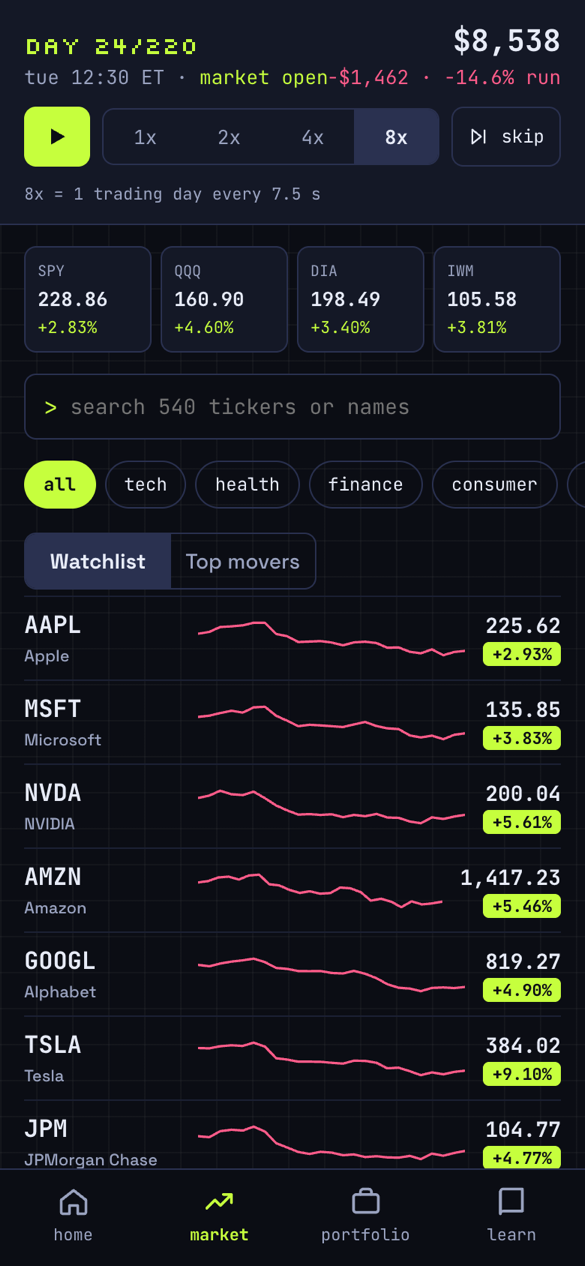
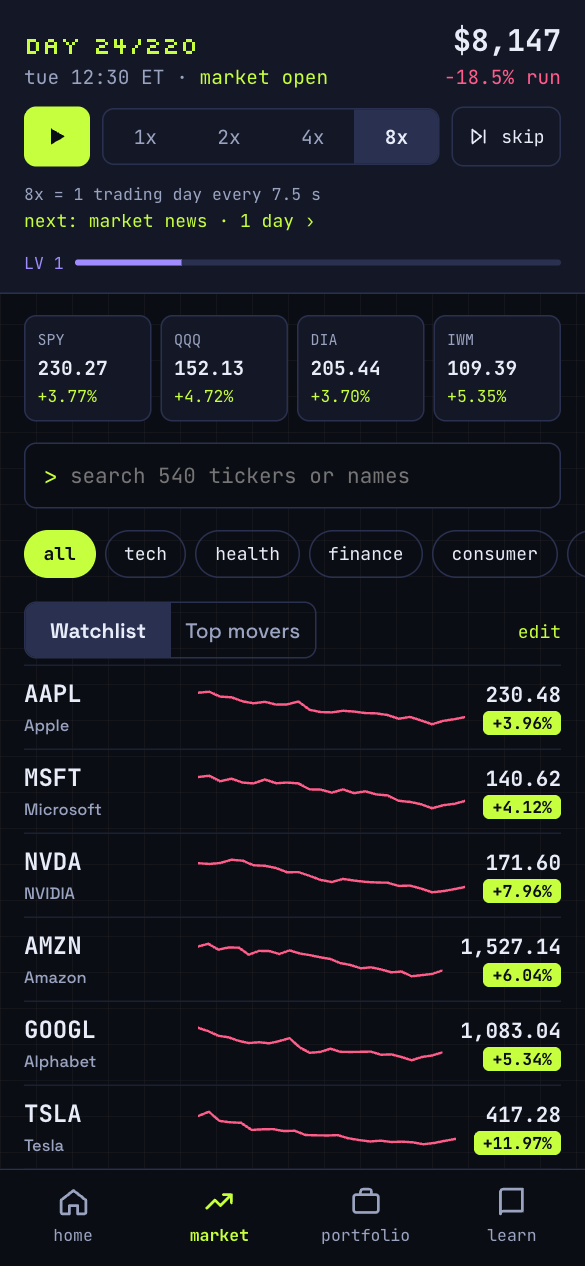
Update README and roadmap for 1.0
Current features and FAQ, new Home and Settings screenshots, refreshed Market and Stock
shots, and phase 6 in the roadmap.

Closes #54

diff --git a/README.md b/README.md
@@ -55,14 +55,19 @@ same prices, same headlines, same earnings surprises. The only thing that change
 
 <table>
   <tr>
+    <td align="center" width="33%"><img src="docs/assets/home.png" alt="Home: level and XP, the run in progress with a Resume button, daily quests and badges" width="260"><br><b>Home</b><br><sub>Your run, quests, streak and badges</sub></td>
     <td align="center" width="33%"><img src="docs/assets/pick-run.png" alt="Pick your run: scenario cards with difficulty and boss runs" width="260"><br><b>Pick your run</b><br><sub>Nine scenarios plus a custom market</sub></td>
-    <td align="center" width="33%"><img src="docs/assets/market.png" alt="Market screen with speed controls, index tiles, sector chips and watchlist" width="260"><br><b>Market</b><br><sub>Live clock, indexes, search, movers</sub></td>
-    <td align="center" width="33%"><img src="docs/assets/stock.png" alt="Stock screen for AAPL with intraday chart, upcoming earnings and dividend tags" width="260"><br><b>Stock</b><br><sub>Intraday chart, events, quick facts</sub></td>
+    <td align="center" width="33%"><img src="docs/assets/market.png" alt="Market screen with speed controls, the next event, index tiles, sector chips and an editable watchlist" width="260"><br><b>Market</b><br><sub>Live clock, next event, indexes, watchlist</sub></td>
   </tr>
   <tr>
+    <td align="center"><img src="docs/assets/stock.png" alt="Stock screen for AAPL with a watchlist star, intraday chart, upcoming earnings and dividend tags" width="260"><br><b>Stock</b><br><sub>Intraday chart, events, quick facts</sub></td>
     <td align="center"><img src="docs/assets/order.png" alt="Order sheet: buy $500 of AAPL with preview and risk check" width="260"><br><b>Order sheet</b><br><sub>Plain-English preview and risk check</sub></td>
     <td align="center"><img src="docs/assets/portfolio.png" alt="Portfolio: account value, return, dividends and a you-vs-SPY chart" width="260"><br><b>Portfolio</b><br><sub>Your equity curve vs the index</sub></td>
+  </tr>
+  <tr>
     <td align="center"><img src="docs/assets/debrief.png" alt="Run complete: grade A, +54.2% vs +12.4% for buy and hold SPY" width="260"><br><b>Debrief</b><br><sub>Grade, stats and replay</sub></td>
+    <td align="center"><img src="docs/assets/settings.png" alt="Settings: player name, day length, pause at each close and sound" width="260"><br><b>Settings</b><br><sub>Clock, sound, saves and backups</sub></td>
+    <td></td>
   </tr>
 </table>
 
@@ -79,36 +84,31 @@ flowchart LR
 ```
 
 1. **Pick your run.** Choose a scenario, starting cash ($1k to $1M) and fees, or build a custom market.
-2. **Trade.** Market hours tick by in 5-minute bars. Play, pause, skip to the close, or change speed (1x to 8x).
+2. **Trade.** Market hours tick by in 5-minute bars. Play, pause, skip to the close, jump to the next event, or change speed (1x to 8x, or as slow as real time).
 3. **React.** Earnings beats and misses, company news and scenario headlines move prices; dividends land in your cash.
 4. **Get graded.** See your return next to buy-and-hold SPY (with dividends), your worst drop, costs and the moments worth learning from.
 5. **Replay.** Same seed, same market. Try the plan you wish you'd had.
 
 ## Features
 
-### Available now
-
 | Area | What you get |
 | --- | --- |
-| **Stocks** | ~550 S&P 500 and popular Nasdaq names, plus index and sector ETFs (SPY, QQQ, DIA, IWM, ...). Search, sector filter, watchlist, top movers. |
+| **Stocks** | ~550 S&P 500 and popular Nasdaq names, plus index and sector ETFs (SPY, QQQ, DIA, IWM, ...). Search, sector filter, top movers, and a watchlist you edit (star any stock). |
 | **Orders** | Market, limit and stop orders. Buy by dollars or shares, fractional shares, day or until-cancelled. "Explain like I'm new" on every order type. |
 | **Realistic fills** | Bid/ask spread, optional commission ($0, $1 or $5 a trade), overnight gaps, stops that slip through gaps. |
 | **Risk check** | Every order shows how much of your account it puts at risk before you confirm. |
-| **Clock** | Real NYSE calendar with weekends and holidays skipped. Play, pause, skip to the close, 1x / 2x / 4x / 8x speed. |
+| **Clock** | Real NYSE calendar with weekends and holidays skipped. Play, pause, skip to the close, 1x to 8x, 5 minutes a day or real time. **Next event** plays ahead to the close before the next earnings report, ex-dividend date or headline for what you hold or watch. |
 | **Events** | Quarterly earnings with beats and misses, company news, scenario headlines, quarterly dividends with ex-dates. |
+| **Margin and shorts** | Borrow up to 2x with interest and margin calls, and sell short with borrow fees (unlocked as you level up). |
 | **Day summary** | At each close: you vs SPY, best and worst holding, the day's headline. |
 | **Portfolio** | Account value, cash, profit and loss, dividends received, and your equity curve against SPY. |
-| **Debrief** | A to F grade, return vs SPY, worst drawdown, win rate, costs paid, best and worst positions, and flagged moments. |
-| **Replay** | Rerun any market with the same seed. Share a seed and a friend gets the same market. |
+| **Debrief** | A to F grade, return vs SPY, worst drawdown, win rate, costs paid, best and worst positions, flagged moments, and the XP and badges the run earned. |
+| **Replay** | Rerun any market with the same seed, or jump back to the close before a flagged moment and try again. |
+| **Learn** | A guided first trade, glossary cards on every term, 12 short lessons and 8 fixed-market challenges. |
+| **Rewards** | XP, levels and ranks, daily quests, streaks and 24 badges. XP rewards good process, not lucky bets. |
+| **Saves** | Runs save themselves in 3 slots and reopen where you left off. Export a run, or back up everything to a file and import it on another device. |
+| **Settings** | Player name, default speed, pause at each close, sound, storage used, reset progress. |
 | **Offline app** | Installable PWA. Fonts and data ship inside the app; no network calls at runtime. |
-
-### Coming next
-
-- **Learn:** guided first trade, glossary tooltips, short lessons and challenges.
-- **Rewards:** XP, levels and ranks, daily quests, streaks and badges, unlockable scenarios.
-- **Replay a moment:** jump straight back to the day of a mistake and try again.
-- **More tools:** margin with margin calls, short selling.
-- **Polish:** autosave and save slots, export and import, settings, slower clock speeds.
 
 See the full [roadmap](docs/ROADMAP.md).
 
@@ -179,8 +179,9 @@ including all stock data, is cached on your device.
 <details>
 <summary><b>Where is my data stored?</b></summary>
 
-On your device only. Nothing is sent anywhere. Runs currently live in memory for the session;
-autosave and save slots are on the roadmap.
+On your device only (in the browser's storage). Nothing is sent anywhere. Runs save themselves
+into 3 slots as you play; Settings can export a run or back up everything to a file, which you
+can import on another device.
 </details>
 
 <details>
@@ -195,8 +196,10 @@ friend and race them on the same market.
 <summary><b>Are the companies and tickers real?</b></summary>
 
 The list of ~550 companies is based on well-known US stocks and ETFs, with approximate sectors,
-volatility and dividend yields. A few tickers may be out of date, and the Meme squeeze scenario
-adds a fictional company.
+volatility and dividend yields, and was last checked in November 2026. A few companies that were
+bought out since then (such as Electronic Arts) stay in, because every scenario ends before they
+left the market. Each company only appears in scenarios that start after it listed. The Meme
+squeeze scenario adds a fictional company.
 </details>
 
 ## Run it locally
@@ -242,8 +245,11 @@ flowchart LR
 
 ```
 src/
-├── engine/    market simulation, calendar, orders, account, events, debrief
-├── worker/    Web Worker that hosts the engine
+├── engine/    market simulation, calendar, orders, account, events, debrief, saves
+├── worker/    Web Worker that hosts the engine and writes saves
+├── game/      XP, levels, quests, badges, settings, watchlist
+├── learn/     glossary, lessons, challenges
+├── storage/   IndexedDB, save slots, export files
 ├── ui/        screens, charts, order sheet, formatting helpers
 ├── data/      stock and ETF universe
 └── styles/    design tokens and global styles
@@ -266,8 +272,9 @@ src/
 | 1 | Market engine: moods, sectors, intraday prices, trading calendar, stock list | ✅ |
 | 2 | Trading screens: market, stock, order sheet, portfolio | ✅ |
 | 3 | All scenarios, news and events, dividends, debrief and grades | ✅ |
-| 4 | Tutorial, glossary, lessons, challenges, XP and badges, margin and shorts | 🚧 |
-| 5 | Saves, settings, install prompt, offline polish, performance | ⏳ |
+| 4 | Tutorial, glossary, lessons, challenges, XP and badges, margin and shorts | ✅ |
+| 5 | Saves, settings, install prompt, offline polish, performance | ✅ |
+| 6 | Release 1.0: editable watchlist, next event, error screen, accessibility | 🚧 |
 
 Details in [docs/ROADMAP.md](docs/ROADMAP.md). Ideas and bug reports are welcome in
 [Issues](https://github.com/PrataapMS/dip-lab/issues).

diff --git a/docs/ROADMAP.md b/docs/ROADMAP.md
@@ -14,14 +14,14 @@ Prices are simulated. Nothing here is investment advice.
 - Covers bull runs, crashes, rebounds, bubbles, rate shocks, sideways markets and earnings surprises.
 - Honest feedback: every run is scored against buy-and-hold.
 
-## Features (first release)
+## Features (1.0)
 
 | Area | What you get |
 | --- | --- |
-| Stocks | ~550 well-known US stocks plus major index and sector ETFs; search, sector filter, top movers, watchlist |
+| Stocks | ~550 well-known US stocks plus major index and sector ETFs; search, sector filter, top movers, a watchlist you edit |
 | Orders | Market, limit and stop-loss; buy by shares or dollars; fractional shares; plain-English preview |
 | Account | Starting cash from $1k to $1M; optional fees, spreads, dividends, margin and short selling |
-| Clock | Market hours with weekends and holidays skipped; play, pause, step a day, adjustable speed |
+| Clock | Market hours with weekends and holidays skipped; play, pause, step a day, jump to the next event, adjustable speed |
 | News | Scenario headlines, quarterly earnings beats and misses, company news |
 | Portfolio | Cash, holdings, profit and loss, sector mix, your equity curve vs the index |
 | Learning | Guided first trade, glossary, end-of-day summary, debrief with lessons, challenges |
@@ -64,8 +64,9 @@ real price data.
 | 3 | All scenarios, news and events, dividends, end-of-run debrief | Done |
 | 4 | Guided first trade, glossary, lessons, challenges, XP, quests and badges, replay a moment, margin and shorts | Done |
 | 5 | Offline polish, install prompt, saves, settings, performance | Done |
+| 6 | Release 1.0: editable watchlist, next event, refreshed stock list, error screen, accessibility | In progress |
 
 ## Later ideas
 
-Companies that failed, an auto-invest mode, basic options, stock splits and IPOs, strategy bots
-to race against.
+An Android app (including F-Droid), companies that failed, an auto-invest mode, basic options,
+stock splits and IPOs, strategy bots to race against.
